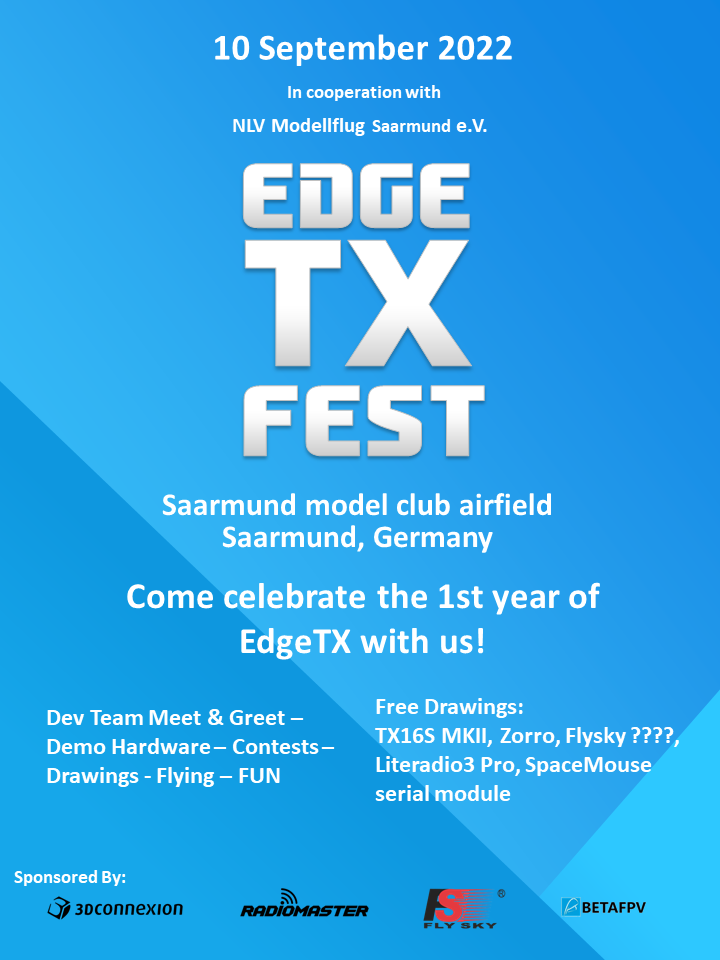
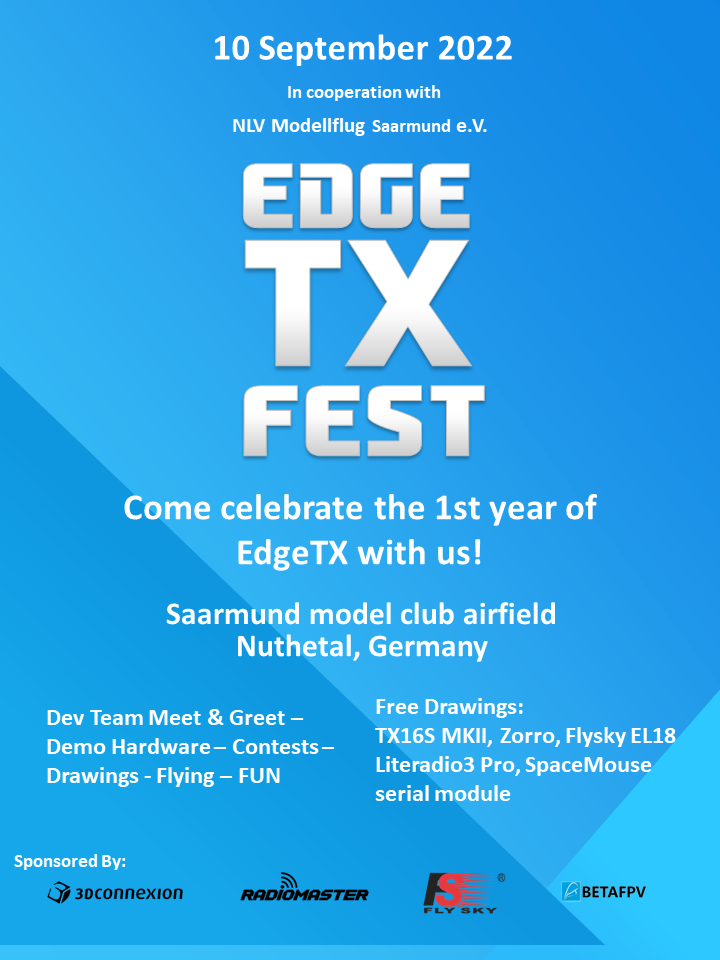
updated poster

diff --git a/docs/fest2022.md b/docs/fest2022.md
@@ -12,18 +12,20 @@
 
 **Time**: 10:00 – 17:00
 
-**Location:** [NLV model club Saarmund e.V.](http://www.nlvms.de/) --  
-[Google Maps Link](https://goo.gl/maps/Apm9M4Xu2A2UBwNLA)
+**Location:** Saarmund model club airfield, D-14558 Nuthetal (near Potsdam), Germany <br/>
+https://goo.gl/maps/q7xJCCypdmuYF6Kw7 <br/>
+For more informtation about the flying Club or the fest location, check out the [club webpage](http://www.nlvms.de/). 
 
 **Cost:** Free
 
-Entrance, Food, and Drinks are free.  Any donations for the event are greatly appreciated and can be made at our Open Collective site: [https://opencollective.com/edgetx](https://opencollective.com/edgetx)
+Entrance, Food, and Drinks are free. Any donations for the event are greatly appreciated and can be made at our Open Collective site: [https://opencollective.com/edgetx](https://opencollective.com/edgetx)
+
+***If you plan to attend, please don't forget to fill out our <a href="https://forms.gle/m2vYJsB1rYBU3pMh6">registration form</a> so that we can plan for everyone.***
 
 ## **Activities:**
 
 - EdgeTX booth with demo radios – Meet the team and try out EdgeTX on a variety of radios
 - Model aircraft flight simulator – get an in-flight feel for different EdgeTX radios
-- RC Airplane Limbo contest
 - RC Car Bowling contest
 - Tinywhoop agility course contest
 - Prize drawings of the demo radios
@@ -44,7 +46,7 @@ Entrance, Food, and Drinks are free.  Any donations for the event are greatly ap
 
 Radiomaster TX16s MKII<br/>
 RadioMaster Zorro<br/>
-Flysky "mystery radio" x2<br/>
+Flysky EL18 x2<br/>
 BetaFPV LiteRadio3 Pro x2<br/>
 BetaFPV ExpressLRS Nano TX Module x3<br/>
 3Dconnexion 6D SpaceMouse serial module<br/>
